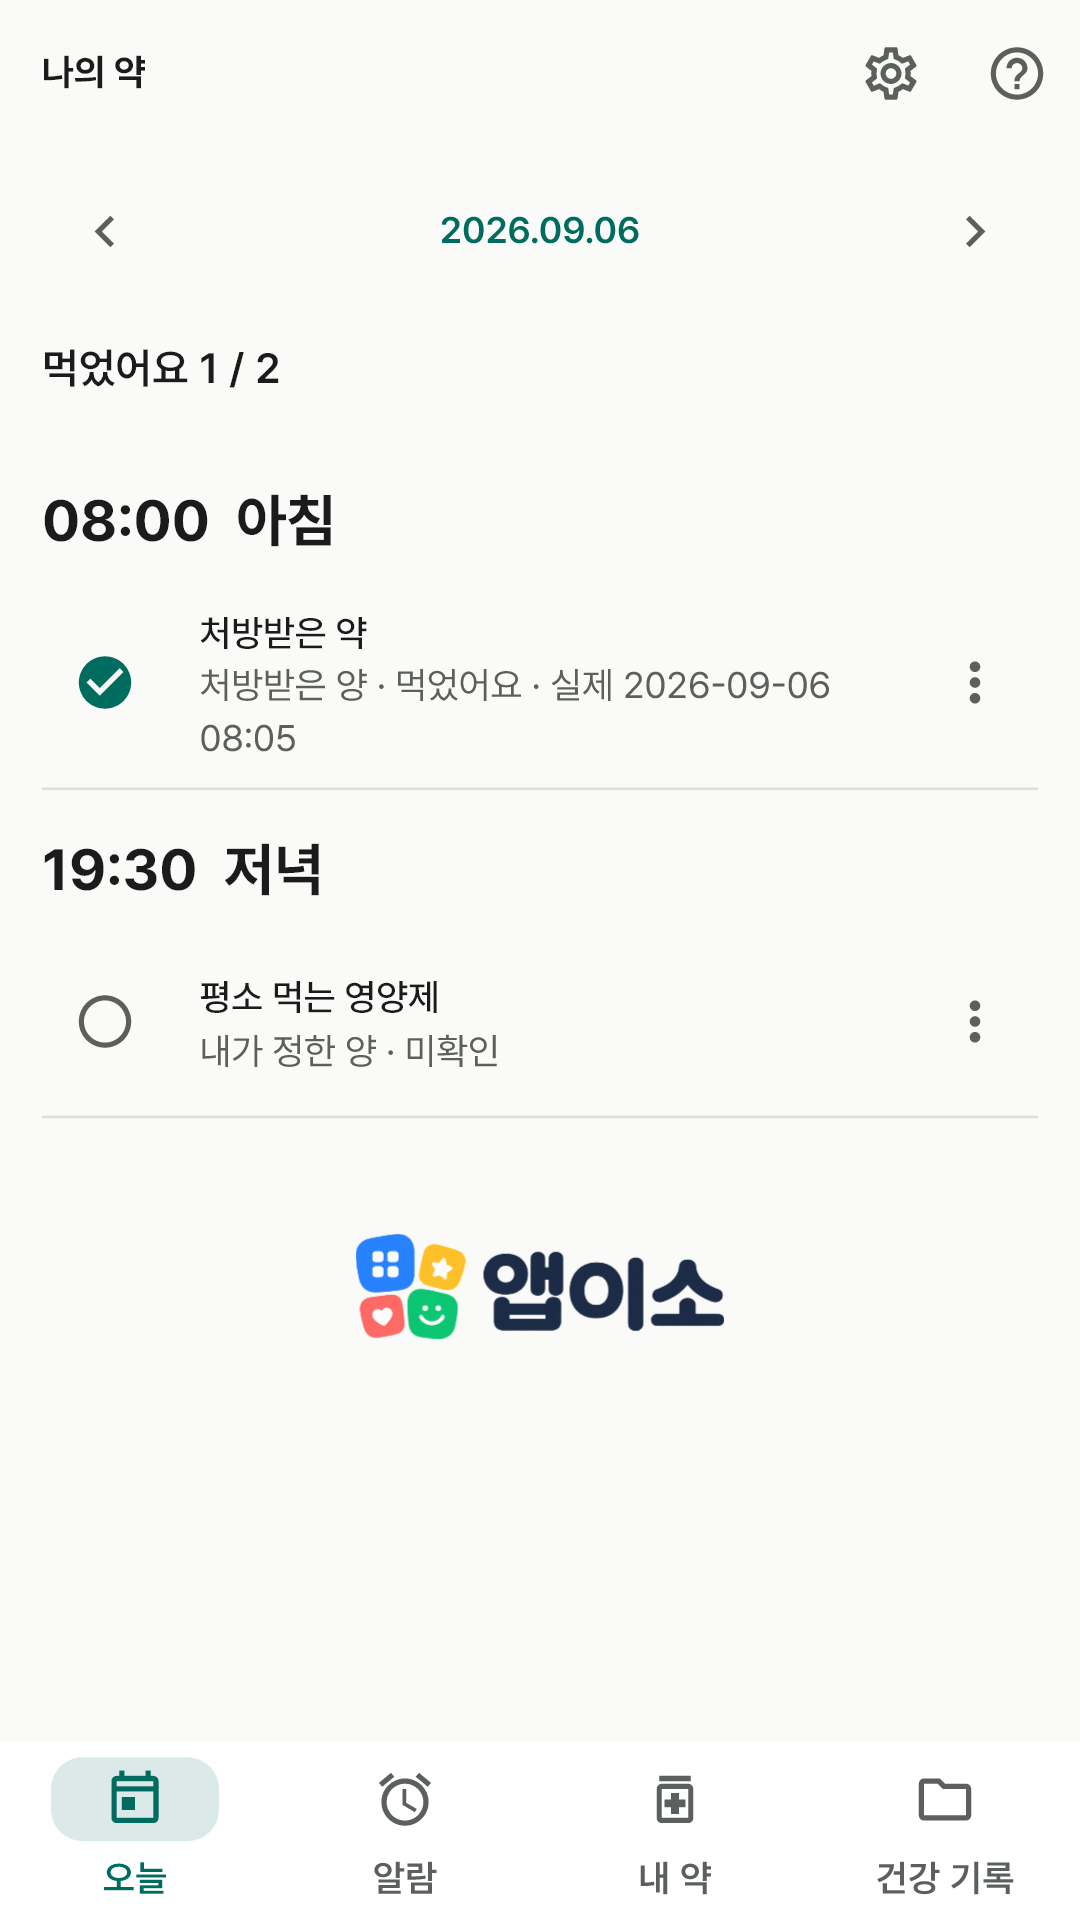
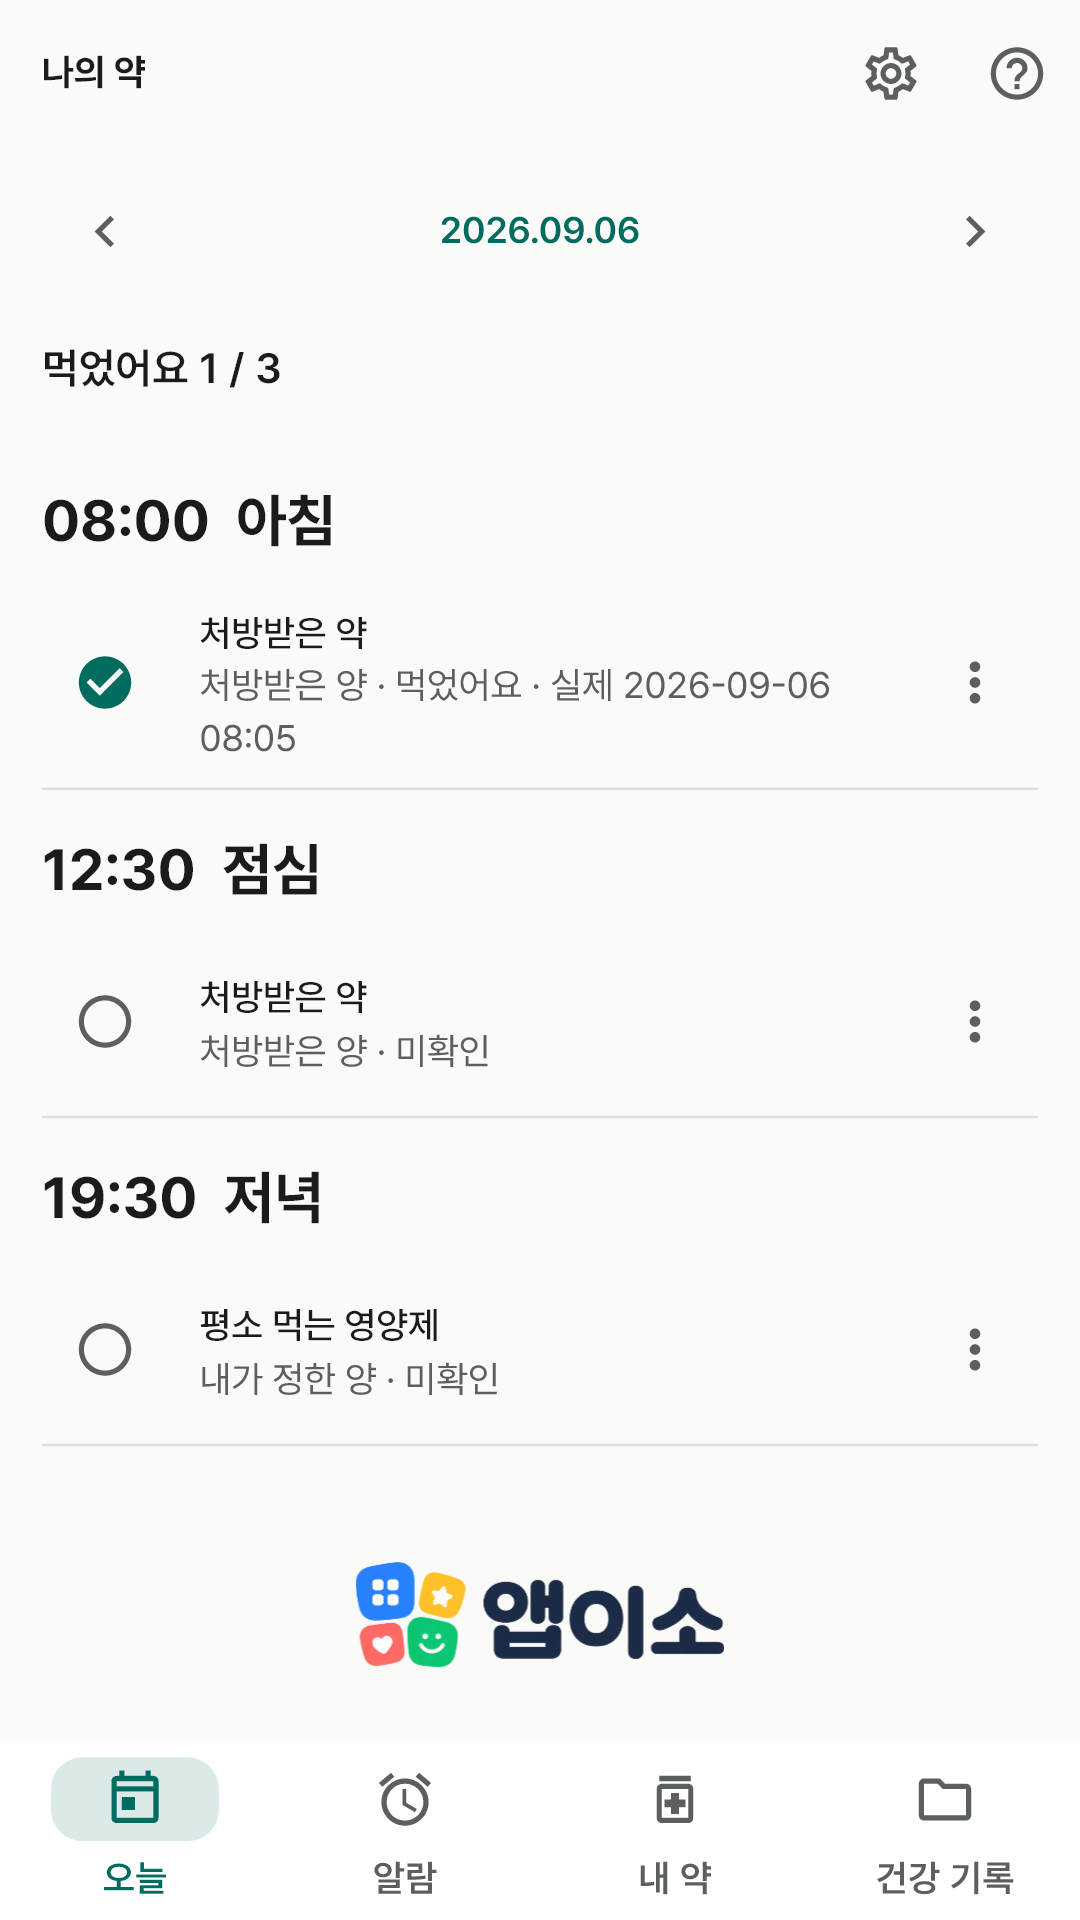
docs: 나의 약 소개 페이지 스크린샷 7장으로 갱신

diff --git a/my_medicine/index.html b/my_medicine/index.html
@@ -8,7 +8,7 @@
 <p class="tag">출시 준비 중 · Android · 가입 없이 · 광고 없이</p>
 <div class="features"><section><h2>알람에 먹을 약을 담아요</h2><p>아침, 저녁 등 시간을 먼저 정하고 약을 추가해요. 같은 약도 시간마다 다른 복용량으로 기록할 수 있어요.</p></section><section><h2>먹은 약만 체크해요</h2><p>먹었어요·건너뛰었어요를 개별 기록하고 예정 시각과 실제 복용 시각을 구분해요.</p></section><section><h2>내 약과 처방을 한곳에</h2><p>제품 사전에서 찾아 입력하고 처방별로 묶어요. 병원에서 보여주기로 현재 복용 정보를 크게 볼 수 있어요.</p></section><section><h2>결과지만 보관해도 충분해요</h2><p>건강 기록에 사진·PDF·메모를 담아요. 수치와 재고는 필요한 사용자만 켜고, 기록은 파일로 백업해요.</p></section></div>
 <h2>실제 앱 화면</h2><p class="note">화면의 약 이름과 기록은 사용법을 보여주는 가상 입력 예시예요. 설치 앱에는 예시 기록이 들어 있지 않아요.</p>
-<div class="shots"><img src="screenshots/01-today.png" alt="오늘의 개별 복용 체크"><img src="screenshots/02-alarms.png" alt="아침과 저녁 알람"><img src="screenshots/03-records.png" alt="수치 없이 보관하는 건강 기록"><img src="screenshots/04-medicines-dark.png" alt="다크 테마의 내 약"></div>
+<div class="shots"><img src="screenshots/01-today.png" alt="오늘의 개별 복용 체크"><img src="screenshots/02-alarms.png" alt="아침·점심·저녁 알람"><img src="screenshots/03-records.png" alt="사진과 메모로 남기는 건강 기록"><img src="screenshots/04-medicines-dark.png" alt="다크 테마의 내 약"><img src="screenshots/05-measurements.png" alt="같은 항목끼리 비교하는 수치 변화"><img src="screenshots/06-doctor.png" alt="병원에서 보여주기 화면"><img src="screenshots/07-alarm-edit.png" alt="알람에 먹을 약을 담는 화면"></div>
 <p>기록·사전 검색·복용 알람은 인터넷 없이 동작해요. 사전은 심평원 2025년10월·식약처 2026년6월 공개 자료이며 일부 제품과 최신 변경이 빠질 수 있어요. 제품명·제조사·함량을 포장과 확인해 주세요.</p>
 <p class="note">알림은 기기 전원·강제 중지·절전·권한 설정의 영향을 받아요. 앱 삭제 전에는 직접 백업해 주세요. 백업 파일은 암호화하지 않으므로 저장 위치와 접근 권한을 직접 관리해 주세요.</p>
 <p class="note">나의 약은 개인 기록과 알림을 위한 앱이에요. 질병의 진단·치료·예방을 위한 의료기기가 아니며 의료 판단을 제공하지 않아요. 복용법과 진료에 관한 판단은 의사·약사에게 확인해 주세요.</p>
